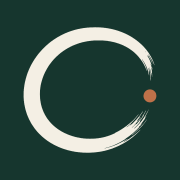
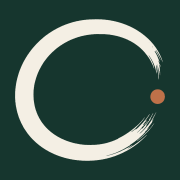
feat(site): one act for /contact, an allowlist for the closing ask, a fuller mark
Three things, all of them the same problem in different places: the site was
repeating itself and spending a page's attention on it.

## /contact was three sections saying one thing

A title spread with an index of two links, then "Reach us directly" on cream,
then "Leave a note" on forest. Each was correctly built and the page still read
as empty, because the content was spread thin across a scroll that kept
promising something more was coming.

It is one forest act now: the address and the number on the left, the form on
the right, the footer under it. The channels come first because they reach a
person now and the form is the slower way to do the same thing — beside them on
a wide screen, above them on a phone.

`#channels` and `#message` keep their ids. A published anchor is a contract
even when the section around it changes shape.

## The closing waitlist act ran on every page

It was a suppression list — ask everywhere, six routes opt out — so the same
full-width ask ran under the legal pages, the safety page, the contact page and
the journal index. The header carries "Join Waitlist" on every route already,
so a visitor who wants it is one glance away wherever they are. Asked
constantly, it stops being an invitation and starts being pressure.

Inverted to an allowlist. It runs where the ask is earned: at the foot of a
page somebody read to the bottom, about one specific place or one specific
[…]

Changed region(s): [[0.0833, 0.0833, 0.9167, 0.9167], [0.7778, 0.4722, 0.9167, 0.5833]]

diff --git a/src/app/contact/page.tsx b/src/app/contact/page.tsx
@@ -1,6 +1,4 @@
 import type { Metadata } from "next";
-import { PageIntro } from "@/components/site/page-intro";
-import { Section } from "@/components/ui/section";
 import { ContactChannels } from "@/components/site/contact-channels";
 import { MessageForm } from "@/components/site/message-form";
 
@@ -18,60 +16,100 @@ export const metadata: Metadata = {
  *
  * A pre-launch product collects questions: what is this, when does it open,
  * can I list my business, is this real. Before 2026-08-07 the site had no
- * answer to any of them except a waitlist form, which asks rather than
- * offers. People look for "Contact", not for a section inside About, so it is
- * a route.
+ * answer to any of them except a waitlist form, which asks rather than offers.
+ * People look for "Contact", not for a section inside About, so it is a route.
  *
- * ## The order on the page is the order of usefulness
+ * ## One act, not three (owner direction, 2026-08-08)
  *
- * The two live channels come first and the form comes second, which is the
- * reverse of the reference this was modelled on. That is deliberate while the
- * form is disabled — but it is the right order afterwards too: email and
- * WhatsApp reach a person now, and a form is a slower way to do the same
- * thing. A visitor should not have to scroll past something that cannot help
- * them to find something that can.
+ * It used to run as a title spread, then "Reach us directly" on cream, then
+ * "Leave a note" on forest — three full-height sections for a page that says
+ * one thing. Each was correctly built and the page still read as empty,
+ * because the content was spread thin across a scroll that kept promising
+ * something more was coming. A title spread with an index of two links is an
+ * index nobody needs.
  *
- * The homepage carries a glance at this (`ContactGlance`), not a copy of it.
+ * They are now a single forest act: the address and the number on the left,
+ * the form on the right, and the footer under it. The page ends where it
+ * stops being useful, which is the point at which somebody has either written
+ * to us or tapped a link.
+ *
+ * ## The order within it is the order of usefulness
+ *
+ * The two live channels come first — on a phone they are what a visitor
+ * reaches first, and they reach a person *now*. The form is the slower way to
+ * do the same thing, so it sits beside them on a wide screen and beneath them
+ * on a narrow one. Nobody should have to scroll past the slow option to find
+ * the fast one.
+ *
+ * ## The surface
+ *
+ * Forest, and the page's own cover — `data-dark-hero` and the `-mt-16` pull-up
+ * that lets the header go transparent over it, exactly as `PageIntro` does for
+ * the other interior pages. `/contact` is already in `isCoverRoute`, so the
+ * server and the first paint agree; **if this section ever stops being dark,
+ * remove it from that list in the same change.**
+ *
+ * The homepage carries a glance at this (`ContactGlance`), not a copy of it,
+ * and the footer's closing waitlist call to action does not run here — the
+ * page is a conversation, not a conversion (see `showsFooterCta`).
  */
-const CONTENTS = [
-  { href: "#channels", label: "Reach us directly" },
-  { href: "#message", label: "Leave a note" },
-];
-
 export default function ContactPage() {
   return (
     <main>
-      <PageIntro
-        eyebrow="Contact"
-        title="Not sure where to start?"
-        accent="Here."
-        lede="Ask us anything about Yuvoy, tell us what you think, or start a conversation about listing what you run."
-        contents={CONTENTS}
-      />
-
-      <Section id="channels" aria-labelledby="channels-heading">
-        <div className="max-w-3xl">
-          <p className="eyebrow text-terra-deep">Reach us directly</p>
-          <h2
-            id="channels-heading"
-            className="font-display tracking-display mt-6 text-[clamp(2.125rem,5vw,3.375rem)] leading-[1.04] font-normal text-balance"
-          >
-            A person reads{" "}
-            <em className="text-terra font-turn italic">every message.</em>
-          </h2>
-          {/*
-            No response-time promise, here or anywhere (owner direction). A
-            window this team will eventually miss costs more trust than one
-            never offered, which is the same rule that keeps launch months off
-            the rest of the site.
-          */}
-          <ContactChannels className="mt-12" />
+      <section
+        data-dark-hero
+        id="contact"
+        aria-labelledby="contact-heading"
+        className="bg-forest text-cream relative -mt-16 overflow-hidden"
+      >
+        {/* The field: the same breathing lagoon light and filmic grain the
+            homepage cover uses, without its photography. Decorative, inert. */}
+        <div aria-hidden className="pointer-events-none absolute inset-0">
+          <div className="hero-atmosphere" />
+          <div className="grain" />
         </div>
-      </Section>
 
-      <Section tone="ink" id="message" aria-labelledby="message-heading">
-        <MessageForm />
-      </Section>
+        <div className="container-page relative pt-32 pb-20 sm:pt-36 sm:pb-28">
+          <div className="grid grid-cols-1 gap-x-16 gap-y-16 lg:grid-cols-2 lg:gap-x-20">
+            <div>
+              <p className="eyebrow text-terra-soft">Contact</p>
+              <h1
+                id="contact-heading"
+                className="font-display tracking-display mt-6 max-w-xl text-[clamp(2.5rem,6vw,4rem)] leading-[1.02] font-normal text-balance"
+              >
+                Not sure where to start?{" "}
+                <em className="text-terra-soft font-turn italic">Here.</em>
+              </h1>
+              <p className="text-cream/75 mt-8 max-w-md text-lg leading-relaxed">
+                Ask us anything about Yuvoy, tell us what you think, or start a
+                conversation about listing what you run.
+              </p>
+
+              {/*
+                `#channels` keeps its id: it was the second entry in the page
+                index this act replaced, and an anchor that has been published
+                is a contract even when the section around it changes shape.
+
+                No response-time promise, here or anywhere (owner direction). A
+                window this team will eventually miss costs more trust than one
+                never offered, which is the same rule that keeps launch months
+                off the rest of the site.
+              */}
+              <h2
+                id="channels"
+                className="label text-cream/70 mt-14 scroll-mt-24"
+              >
+                Reach us directly
+              </h2>
+              <ContactChannels tone="ink" className="mt-6" />
+            </div>
+
+            <div id="message" className="scroll-mt-24">
+              <MessageForm />
+            </div>
+          </div>
+        </div>
+      </section>
     </main>
   );
 }

diff --git a/src/lib/site/nav.ts b/src/lib/site/nav.ts
@@ -174,30 +174,55 @@ export function hidesSiteChrome(pathname: string): boolean {
 }
 
 /**
- * Routes that suppress the footer's closing call to action.
+ * Routes that close with the waitlist call to action — an **allowlist**.
  *
- * The footer repeats the ask on every page, which is right almost everywhere.
- * Two kinds of route opt out, for two different reasons:
+ * ## Why it is stated the other way round (owner direction, 2026-08-08)
  *
- * 1. **They already made the ask.** `/`, `/waitlist`, `/operators`, `/explore`
- *    and the campaign routes all end in a form or a call to action of their
- *    own, and stacking a second one directly beneath reads as a page that has
- *    lost track of what it just said.
- * 2. **The ask does not belong there.** `/about` (owner direction,
- *    2026-08-07). Its job is to explain the company, not to convert, and it
- *    carried "Join the waitlist" twice — once in its own status section, once
- *    in the footer's — inside a single scroll. The header carries the call to
- *    action on every route regardless.
+ * It used to be a suppression list: the footer asked on every route and six
+ * opted out, so the ask ran under the legal pages, the safety page, the
+ * contact page and the journal index. That is the wrong default. The header
+ * carries "Join Waitlist" on every page already, so a visitor who wants it is
+ * one glance away wherever they are — and a full-width act repeating the same
+ * ask underneath every page reads as a site that does not trust its own
+ * navigation. Asked constantly it stops being an invitation and starts being
+ * pressure.
+ *
+ * So it is asked where the ask is **earned**: at the foot of a page somebody
+ * chose to read to the bottom, about one specific place or one specific idea,
+ * that has no conversion of its own.
+ *
+ * - **A destination page** (`/destinations/<slug>`) — somebody reading about
+ *   Havelock is deciding whether to go there. The waitlist is the next step of
+ *   the thing they are already doing.
+ * - **A journal post** (`/journal/<slug>`) — somebody who finished the piece.
+ *
+ * The journal *index* is excluded on purpose: a list is browsing, not
+ * finishing. Everything else says nothing at the foot of the page, because the
+ * routes that convert already do it in their own words:
+ *
+ * | route | how it asks |
+ * |---|---|
+ * | `/`, `/go/*` | closes on the registration form itself |
+ * | `/waitlist` | is the form |
+ * | `/operators` | closes on the application |
+ * | `/explore` | its own closing act |
+ * | `/about` | explains the company; does not convert |
+ * | `/contact` | a conversation, not a conversion |
+ * | `/safety`, `/privacy`, `/terms` | nothing to sell on a page of undertakings |
+ *
+ * **Adding a route here is a design decision, not a routing one.** That is the
+ * point of an allowlist: it grows only by a deliberate act, where a
+ * suppression list grew silently every time a page was added.
  */
-export function suppressesFooterCta(pathname: string): boolean {
-  return (
-    pathname === "/" ||
-    pathname === "/waitlist" ||
-    pathname === "/operators" ||
-    pathname === "/explore" ||
-    pathname === "/about" ||
-    pathname.startsWith("/go/")
-  );
+const FOOTER_CTA_ROOTS = ["/destinations/", "/journal/"] as const;
+
+export function showsFooterCta(pathname: string): boolean {
+  return FOOTER_CTA_ROOTS.some((root) => {
+    if (!pathname.startsWith(root)) return false;
+    // A leaf page under the root — not the root itself, not a deeper path.
+    const rest = pathname.slice(root.length);
+    return rest.length > 0 && !rest.includes("/");
+  });
 }
 
 /**

diff --git a/e2e/content-pages.spec.ts b/e2e/content-pages.spec.ts
@@ -262,3 +262,59 @@ test("the primary routes appear in the site navigation", async ({ page }) => {
     ).toBeVisible();
   }
 });
+
+/*
+  The closing waitlist act is an allowlist, not a habit (owner direction,
+  2026-08-08).
+
+  It used to run under every route that did not explicitly opt out, which put
+  the same full-width ask beneath the legal pages, the safety page, the contact
+  page and the journal index. The header carries "Join Waitlist" on every page,
+  so the footer asks only where the ask is earned: at the foot of a page
+  somebody read to the bottom, about one place or one idea, with no conversion
+  of its own.
+
+  Asserted both ways round. A test that only checks the absences would pass
+  just as happily if the act were deleted altogether.
+*/
+test.describe("the footer's closing call to action", () => {
+  const CLOSES_WITH_THE_ASK = [
+    "/destinations/havelock",
+    "/journal/why-the-andamans",
+  ];
+
+  const DOES_NOT = [
+    "/", // closes on the registration form itself
+    "/waitlist", // is the form
+    "/operators", // closes on the application
+    "/explore",
+    "/about",
+    "/contact", // a conversation, not a conversion
+    "/safety",
+    "/privacy",
+    "/terms",
+    "/journal", // a list is browsing, not finishing
+  ];
+
+  for (const path of CLOSES_WITH_THE_ASK) {
+    test(`${path} closes with it`, async ({ page }) => {
+      await page.goto(path);
+      await expect(
+        page
+          .getByRole("contentinfo")
+          .getByRole("heading", { name: /be first to experience yuvoy/i }),
+      ).toBeVisible();
+    });
+  }
+
+  for (const path of DOES_NOT) {
+    test(`${path} does not`, async ({ page }) => {
+      await page.goto(path);
+      await expect(
+        page
+          .getByRole("contentinfo")
+          .getByRole("heading", { name: /be first to experience yuvoy/i }),
+      ).toHaveCount(0);
+    });
+  }
+});

diff --git a/src/components/site/footer-cta.tsx b/src/components/site/footer-cta.tsx
@@ -4,14 +4,15 @@ import Link from "next/link";
 import { usePathname } from "next/navigation";
 import { buttonVariants, ButtonArrow } from "@/components/ui/button";
 import { cn } from "@/lib/cn";
-import { suppressesFooterCta, PRIMARY_CTA } from "@/lib/site/nav";
+import { showsFooterCta, PRIMARY_CTA } from "@/lib/site/nav";
 
 /**
  * The footer's closing call to action.
  *
- * Hidden on routes that already close with the ask — the form itself, or a
- * section that just made the same request. Repeating it immediately below
- * reads as a page that has lost track of what it just said.
+ * Shown on the two kinds of page where the ask is earned — a destination page
+ * and a journal post — and nowhere else. The header carries "Join Waitlist"
+ * everywhere, so repeating it at the foot of every route was pressure rather
+ * than invitation; `showsFooterCta` holds the reasoning and the list.
  *
  * The headline used to be "The islands first. Then everywhere worth going."
  * It was replaced on 2026-08-06: "everywhere worth going" is an expansion
@@ -21,7 +22,7 @@ import { suppressesFooterCta, PRIMARY_CTA } from "@/lib/site/nav";
  */
 export function FooterCta() {
   const pathname = usePathname();
-  if (suppressesFooterCta(pathname)) return null;
+  if (!showsFooterCta(pathname)) return null;
 
   return (
     <div className="container-page border-cream/12 border-b py-20 sm:py-24">
